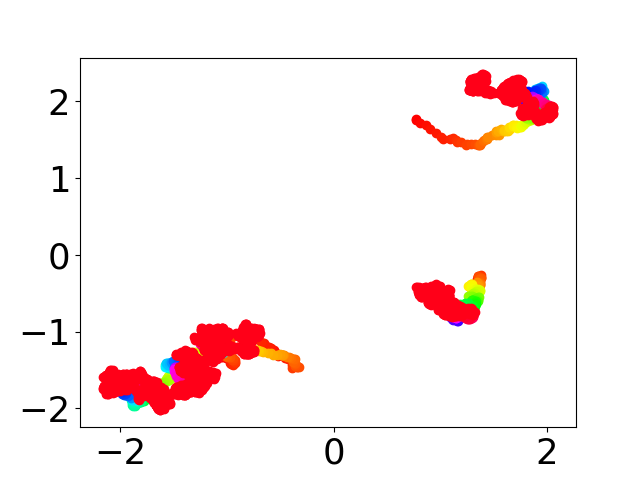
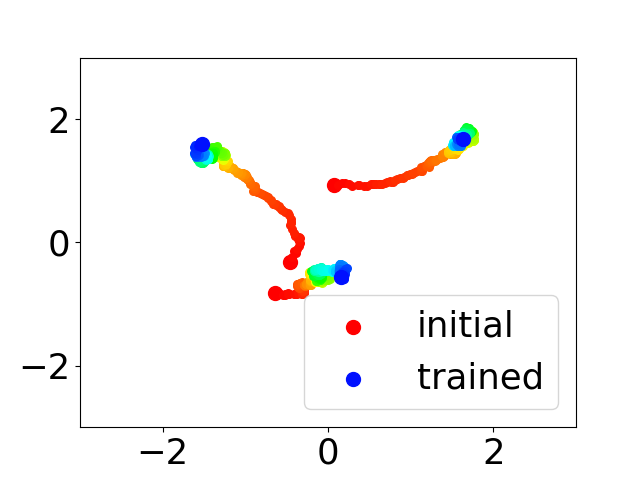
最新コードの反映

diff --git a/nn/comparison_parameters.py b/nn/comparison_parameters.py
@@ -3,6 +3,7 @@ import torch
 import torch.nn as nn
 import torch.nn.functional as F
 import matplotlib.pyplot as plt
+import matplotlib.cm as cm
 from sklearn.datasets import make_blobs
 from tqdm import tqdm
 
@@ -47,7 +48,7 @@ num = 5
 # model parameters
 M = 7000
 lr = 1e-2
-T = 10000
+T = 5000
 
 # regularization
 lda1 = 1e-3 # weight decay
@@ -97,17 +98,25 @@ ntk_params = []
 
 # 最初のパラメータの保存
 for p in mfld.parameters():
+    xs = []
+    ys = []
     for i, single_p in enumerate(p.data):
         if i == num:
             break
-        mfld_params.append({'x': [single_p[0].item()], 'y': [single_p[1].item()]})
+        xs.append(single_p[0].item())
+        ys.append(single_p[1].item())
+    mfld_params.append({'x': xs, 'y': ys})
     break
 
 for p in ntk.parameters():
+    xs = []
+    ys = []
     for i, single_p in enumerate(p.data):
         if i == num:
             break
-        ntk_params.append({'x': [single_p[0].item()], 'y': [single_p[1].item()]})
+        xs.append(single_p[0].item())
+        ys.append(single_p[1].item())
+    ntk_params.append({'x': xs, 'y': ys})
     break
 
 
@@ -141,18 +150,27 @@ for t in tqdm(range(T)):
 
     if t % skip == 0:        
         for p in mfld.parameters():
+    
+            xs = []
+            ys = []
             for i, single_p in enumerate(p.data):
                 if i == num:
                     break
-                mfld_params[i]['x'].append(single_p[0].item())
-                mfld_params[i]['y'].append(single_p[1].item())
+                xs.append(single_p[0].item())
+                ys.append(single_p[1].item())
+            mfld_params.append({'x': xs, 'y': ys})
             break
+
         for p in ntk.parameters():
+    
+            xs = []
+            ys = []
             for i, single_p in enumerate(p.data):
                 if i == num:
                     break
-                ntk_params[i]['x'].append(single_p[0].item())
-                ntk_params[i]['y'].append(single_p[1].item())
+                xs.append(single_p[0].item())
+                ys.append(single_p[1].item())
+            ntk_params.append({'x': xs, 'y': ys})
             break
 
 #テスト精度の算出
@@ -165,22 +183,24 @@ print('mfld_loss={}'.format(mfld_loss))
 print('ntk_loss={}'.format(ntk_loss))
 
 
+map = plt.get_cmap('plasma')
+total = T / skip
+
 # mfldの描画
 plt.figure(0)
 FONT_SIZE = 25.5
 plt.rc('font',size=FONT_SIZE)
+plt.xlim(-3, 3)
+plt.ylim(-3, 3)
+for i, mfld_param in enumerate(mfld_params):
+    if i == 0:
+        plt.scatter(mfld_param['x'], mfld_param['y'], color=map(i/total), s=100, label="initial")
+    elif i == len(mfld_params)-1:
+        plt.scatter(mfld_param['x'], mfld_param['y'], color=map(i/total), s=100, label="trained")
+    else:
+        plt.scatter(mfld_param['x'], mfld_param['y'], color=map(i/total), s=30)
 
-for mfld_param in mfld_params:
-    plt.plot(mfld_param['x'][0], mfld_param['y'][0], '.', markersize=20, color='darkviolet')
-    plt.plot(mfld_param['x'][-1], mfld_param['y'][-1], '.', markersize=20, color='y')
-    plt.plot(mfld_param['x'], mfld_param['y'], color='darkviolet', linewidth=3)
-
-plt.scatter([], [], label = "initial", color = "darkviolet")
-plt.scatter([], [], label = "trained", color = "y")
-plt.legend(loc='lower left')
-
-plt.xlim(left=-5, right=5)
-
+plt.legend()
 plt.savefig('/workspace/nn/results/mfld_parameters.png')
 
 # ntkの描画
@@ -188,15 +208,15 @@ plt.clf()
 plt.figure(0)
 FONT_SIZE = 25.5
 plt.rc('font',size=FONT_SIZE)
-plt.xlim(left=-5, right=5)
+plt.xlim(-3, 3)
+plt.ylim(-3, 3)
+for i, ntk_param in enumerate(ntk_params):
+    if i == 0:
+        plt.scatter(ntk_param['x'], ntk_param['y'], color=map(i/total), s=100, label="initial")
+    elif i == len(ntk_params)-1:
+        plt.scatter(ntk_param['x'], ntk_param['y'], color=map(i/total), s=100, label="trained")
+    else:
+        plt.scatter(ntk_param['x'], ntk_param['y'], color=map(i/total), s=30)
 
-for ntk_param in ntk_params:
-    plt.plot(ntk_param['x'][0], ntk_param['y'][0], '.', markersize=20, color='darkviolet')
-    plt.plot(ntk_param['x'][-1], ntk_param['y'][-1], '.', markersize=20, color='y')
-    plt.plot(ntk_param['x'], ntk_param['y'], color='darkviolet', linewidth=3)
-
-plt.scatter([], [], label = "initial", color = "darkviolet")
-plt.scatter([], [], label = "trained", color = "y")
-plt.legend(loc='lower left')
-
+plt.legend()
 plt.savefig('/workspace/nn/results/ntk_parameters.png')

diff --git a/other_method/cat_boost.py b/other_method/cat_boost.py
@@ -1,6 +1,7 @@
 from scripts import sample_data
-import lightgbm as lgb
+from catboost import CatBoostClassifier
 from sklearn.model_selection import GridSearchCV
+from sklearn.metrics import make_scorer, accuracy_score
 import numpy as np
 import sys
 import time
@@ -36,27 +37,23 @@ print("dataset {} is loaded".format(dataset))
 print('--------------------------------------')
 sys.stdout.flush() # 明示的にflush
 
-model = lgb.LGBMClassifier(objective='multiclass')
+model = CatBoostClassifier()
 
-# params = {
-#     'learning_rate' :  [1e-3],#[1e-3, 1e-2, 0.1, 1],
-#     'num_leaves': [16],#[16, 32, 64, 128, 256, 512, 1024],
-#     'n_estimators': [500],#[500, 1000],
-#     'max_depth': [10],#[10]
-# }
 params = {
-    'num_leaves': [3, 4, 5, 6, 7, 8, 9, 10],
-    'reg_alpha': [0, 1, 2, 3, 4, 5,10, 100],
-    'reg_lambda': [10, 15, 18, 20, 21, 22, 23, 25, 27, 29]
+    'depth': [6,7,8,9,10],
+    'learning_rate': [0.01,0.02,0.03,0.04],
+    'iterations': [100, 200, 300],
+    'logging_level':['Silent']
 }
 
+scorer = make_scorer(accuracy_score)
 
 cv = 5
 tuned_model = GridSearchCV(
     estimator=model, 
     param_grid=params,
     cv = cv,
-    verbose = 100
+    scoring=scorer,
 )
 
 tuned_model.fit(X, Y)
